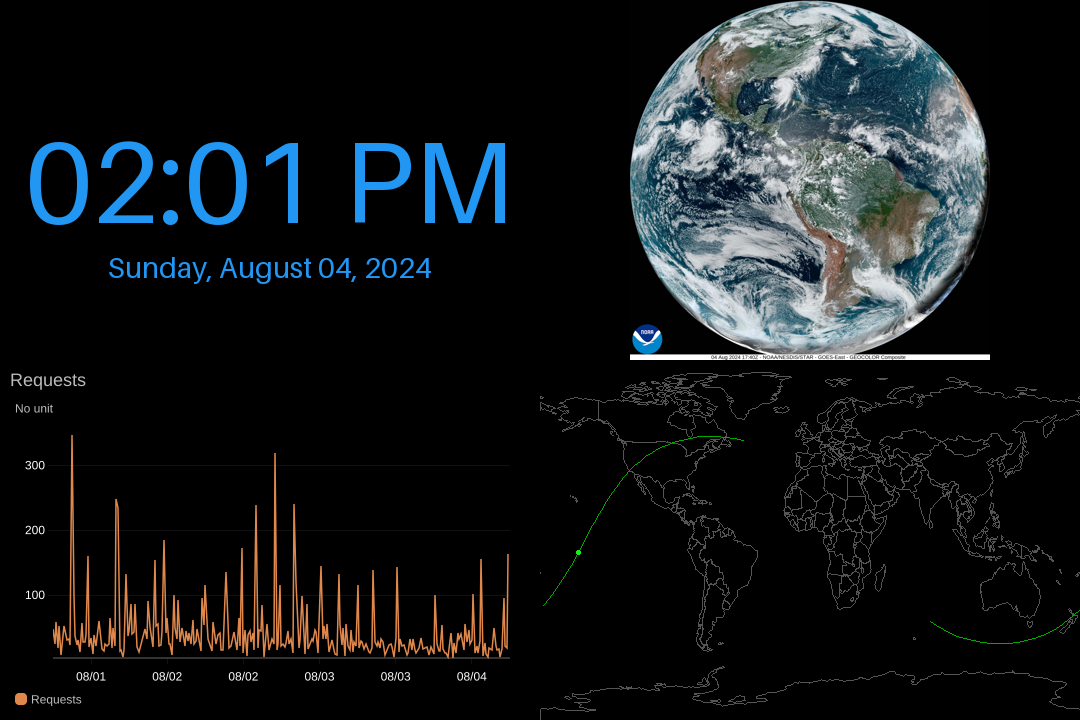
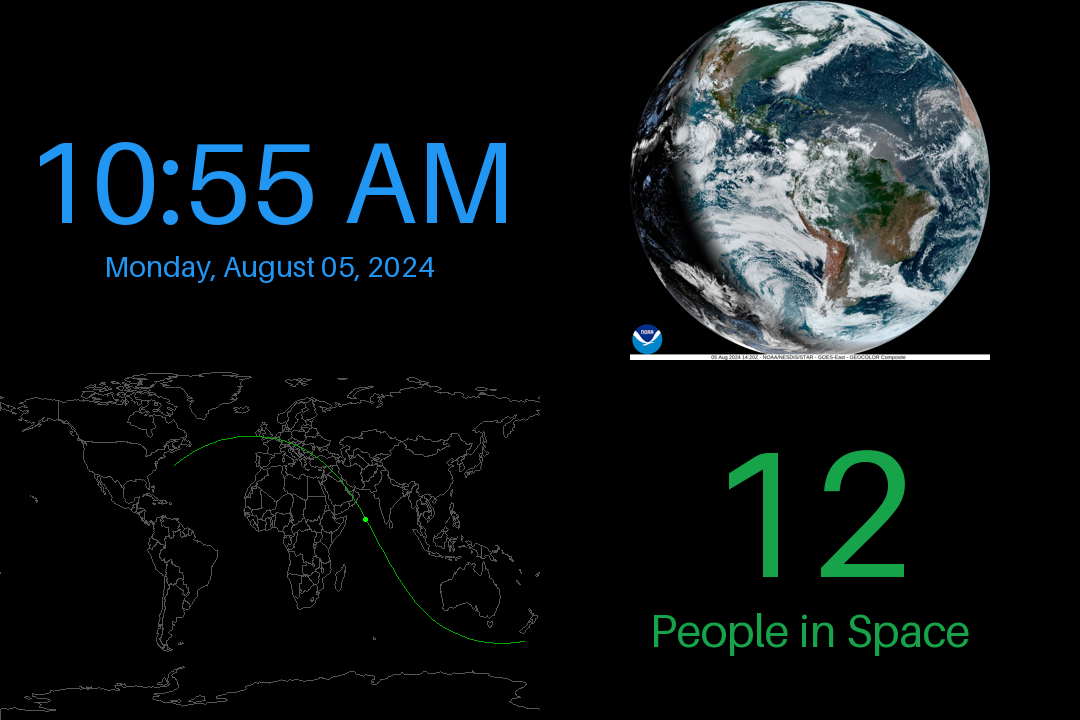
feat: "Big Metric" view for numerical metrics. Update `examples2` with "people in space" example

diff --git a/fb_dashboard/widgets/big_metric.py b/fb_dashboard/widgets/big_metric.py
@@ -1,0 +1,98 @@
+from PIL import Image, ImageDraw, ImageFont
+from .base import WidgetBase
+from ..util import eval_expr, parse_color
+from datetime import datetime as dt
+import requests
+
+def get_keypath(obj, keypath):
+    keys = keypath.split(".")
+    for key in keys:
+        obj = obj[key]
+    return obj
+
+class BigMetricWidget(WidgetBase):
+    def __init__(self, x, y, width, height, config):
+        super().__init__(x, y, width, height, config)
+        self.url = config['url']
+        self.bg_color = parse_color(config.get("bg_color", "#000000"))
+        self.fg_color = parse_color(config.get("fg_color", "#16a34a"))
+        self.label = config.get("label", "")
+        self.mode = config.get("mode", "json")
+        self.json_path = config['json_path']
+        self.refresh_interval = 60 * 5
+
+    def find_font_size(self, test_text, height, width):
+        font_size = 1
+
+        for i in range(height):
+            font = ImageFont.load_default(font_size)
+            length = font.getlength(test_text)
+            if length > 0.9 * width or font_size > 0.9 * height:
+                break
+            font_size += 1
+
+        if font_size > 0.5 * height:
+            font_size = 0.5 * height
+
+        return font_size
+
+    def fetch_data(self):
+        data = requests.get(self.url)
+        if self.mode == "json":
+            data = data.json()
+        else:
+            raise ValueError("Unknown mode: %s" % self.mode)
+
+        self.data = str(get_keypath(data, self.json_path))
+
+    def refresh(self):
+        """
+        Write the text into the framebuffer
+        """
+        image = Image.new("RGBA", (self.width, self.height), self.bg_color)
+        draw = ImageDraw.Draw(image)
+
+        self.fetch_data()
+        print(self.data)
+
+        self.size = self.find_font_size(self.data, self.height, self.width)
+        font = ImageFont.load_default(self.size)
+        date_font = ImageFont.load_default(0.25 * self.size)
+
+        font_top = self.height - self.size - 0.25 * self.size - 0.25 * self.size
+
+        # print(x, y, self.size)
+        draw.text(
+            (self.width // 2, font_top),
+            self.data,
+            fill=self.fg_color,
+            font=font,
+            anchor="mt",
+        )
+        draw.text(
+            (self.width // 2, font_top + self.size),
+            self.label,
+            fill=self.fg_color,
+            font=date_font,
+            anchor="mm",
+        )
+
+        img_resized = image.resize((self.width, self.height), Image.Resampling.LANCZOS)
+        self.bytes = img_resized.tobytes("raw", "BGRA")
+        self.bytes_per_pixel = 4
+        super().refresh()
+
+    def write_into_fb(self, fb):
+        """
+        Write the image into the framebuffer
+        """
+        if not self.has_refreshed:
+            return
+
+        for y in range(self.height):
+            y_off = y * self.width * self.bytes_per_pixel
+            fb.write_line(
+                self.x,
+                self.y + y,
+                self.bytes[y_off : y_off + self.width * self.bytes_per_pixel],
+            )

diff --git a/fb_dashboard/__main__.py b/fb_dashboard/__main__.py
@@ -11,6 +11,7 @@ from .widgets.cloudwatch_metric import CloudWatchImageWidget
 from .widgets.clock import ClockWidget
 from .widgets.stock_candlestick import YFCandlestickWidget
 from .widgets.satellite import SatelliteWidget
+from .widgets.big_metric import BigMetricWidget
 
 if __name__ == "__main__":
     args = argparse.ArgumentParser()
@@ -36,6 +37,7 @@ if __name__ == "__main__":
         "Image": ImageWidget,
         "Text": TextWidget,
         "Clock": ClockWidget,
+        'Metric': BigMetricWidget,
         "StockMarketCandlestick": YFCandlestickWidget,
         "CloudWatchMetricImage": CloudWatchImageWidget,
         "SatelliteMap": SatelliteWidget,

diff --git a/README.md b/README.md
@@ -73,6 +73,13 @@ For usage examples, see the `examples/` folder for some starter templates.
   - `track_color` - (optional) rgb/hex color for tracks, default `#00bf00`
   - `satellite_color` - (optional) rgb/hex color for satellite marker pins, default `#00ff00`
   - `pin_radius` - (optional) integer size of pins. Is eval expression, can use `w` / `h` vars for computed widget size
+- `Metric` - a large metric that can pull from JSON APIs, and has a configurable subtitle label
+  - `url` - the url to load from.
+  - `bg_color` - bg color, in hex or `rgb()` format.
+  - `fg_color` - bg color, in hex or `rgb()` format.
+  - `label` - subtitle label
+  - `mode` - supported: `json`
+  - `json_path` - required - a dot notation keypath within the JSON loaded from to locate the number to display
 
 - `Text` (experimental)
   - `text` - text to display
